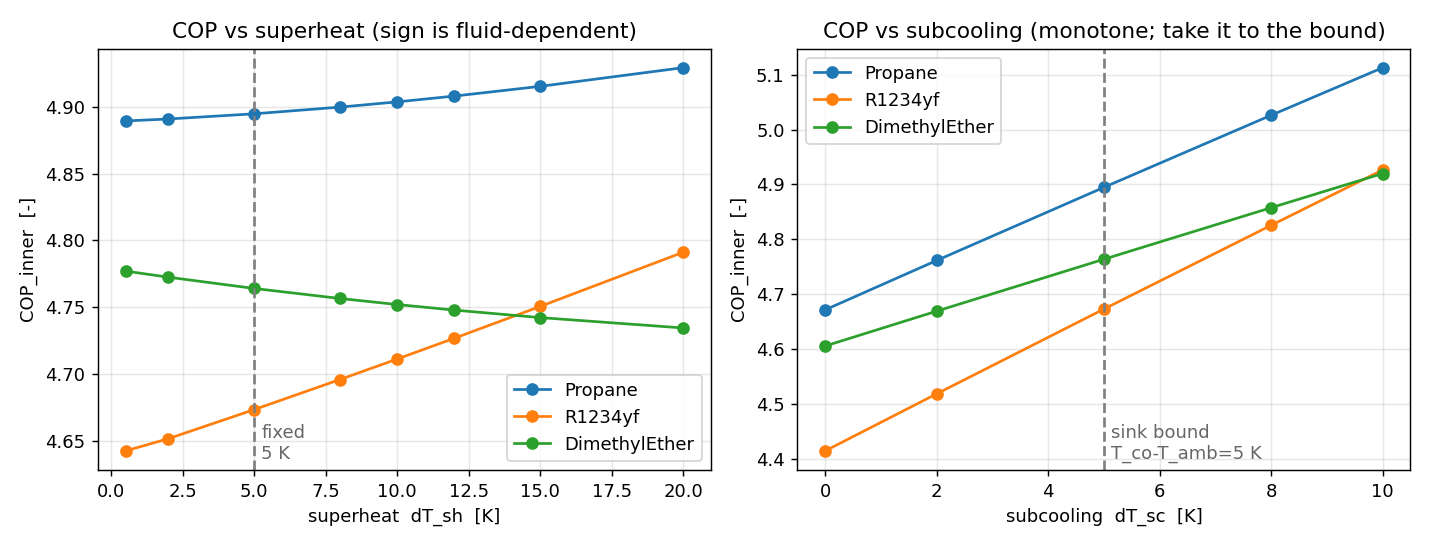
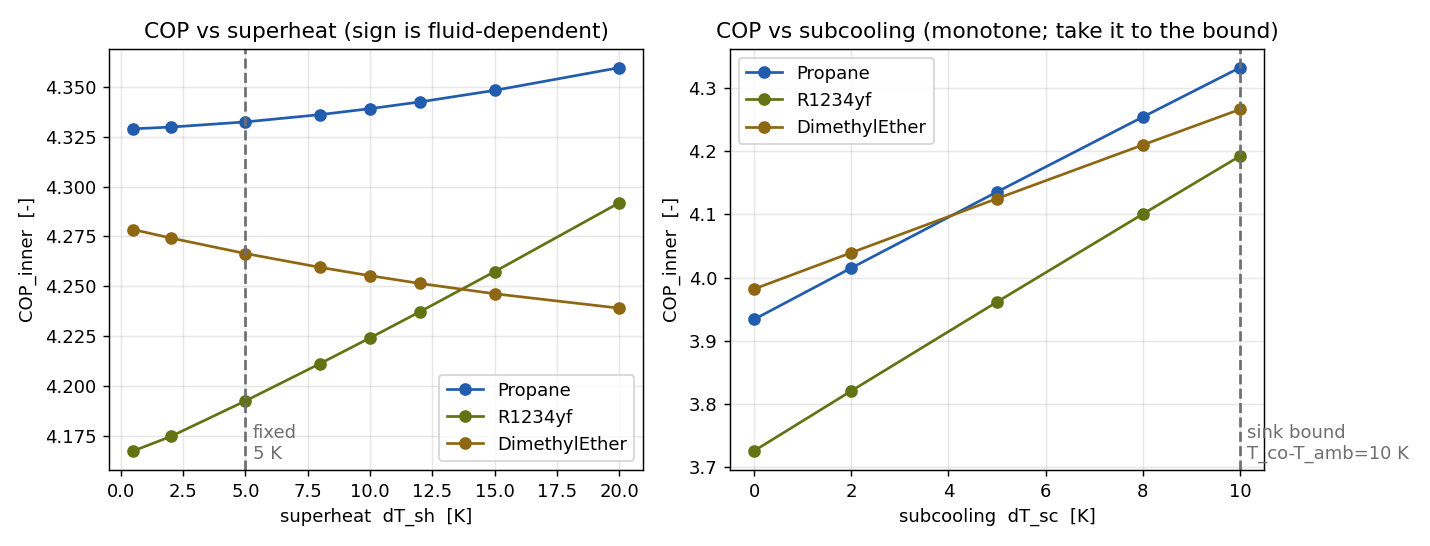
Extend ETH colour scheme to analysis/superheat_subcool_sweep.py
Adds config.REFRIGERANT_COLORS so the three refrigerants get a consistent
colour across every figure that compares them, not just plotting.py's. Last
remaining matplotlib-default-cycle figure in the repo.

diff --git a/analysis/superheat_subcool_sweep.py b/analysis/superheat_subcool_sweep.py
@@ -68,13 +68,13 @@ def main():
     print("SUPERHEAT sweep  (subcool = %.0f K):" % SC_BOUND)
     for refr in REFRIGERANTS:
         cops, qs, tds = zip(*[_cop_q_tdis(refr, sh, SC_BOUND) for sh in SH_GRID])
-        axL.plot(SH_GRID, cops, marker="o", label=refr)
+        axL.plot(SH_GRID, cops, marker="o", color=config.REFRIGERANT_COLORS[refr], label=refr)
         d = 100 * (cops[-1] / cops[0] - 1)
         print("  %-14s COP %.3f->%.3f (%+.1f%% over %g-%g K) | T_dis %.0f->%.0f C"
               % (refr, cops[0], cops[-1], d, SH_GRID[0], SH_GRID[-1], tds[0], tds[-1]))
-    axL.axvline(DT_SH_FIX, ls="--", c="0.5")
+    axL.axvline(DT_SH_FIX, ls="--", c=config.COLOR_NEUTRAL)
     axL.annotate("fixed\n%.0f K" % DT_SH_FIX, (DT_SH_FIX, axL.get_ylim()[0]),
-                 textcoords="offset points", xytext=(4, 6), color="0.4")
+                 textcoords="offset points", xytext=(4, 6), color=config.COLOR_NEUTRAL)
     axL.set_xlabel("superheat  dT_sh  [K]"); axL.set_ylabel("COP_inner  [-]")
     axL.set_title("COP vs superheat (sign is fluid-dependent)"); axL.legend(); axL.grid(alpha=.3)
 
@@ -82,14 +82,14 @@ def main():
     print("\nSUBCOOL sweep    (superheat = %.0f K):" % DT_SH_FIX)
     for refr in REFRIGERANTS:
         cops, qs, tds = zip(*[_cop_q_tdis(refr, DT_SH_FIX, sc) for sc in SC_GRID])
-        axR.plot(SC_GRID, cops, marker="o", label=refr)
+        axR.plot(SC_GRID, cops, marker="o", color=config.REFRIGERANT_COLORS[refr], label=refr)
         i_b = SC_GRID.index(int(SC_BOUND)) if int(SC_BOUND) in SC_GRID else None
         d = 100 * (cops[i_b] / cops[0] - 1) if i_b is not None else float("nan")
         print("  %-14s COP %.3f (sc=0) -> %.3f (sc=%g, the bound)  %+.1f%%"
               % (refr, cops[0], cops[i_b], SC_BOUND, d))
-    axR.axvline(SC_BOUND, ls="--", c="0.5")
+    axR.axvline(SC_BOUND, ls="--", c=config.COLOR_NEUTRAL)
     axR.annotate("sink bound\nT_co-T_amb=%.0f K" % SC_BOUND, (SC_BOUND, axR.get_ylim()[0]),
-                 textcoords="offset points", xytext=(4, 6), color="0.4")
+                 textcoords="offset points", xytext=(4, 6), color=config.COLOR_NEUTRAL)
     axR.set_xlabel("subcooling  dT_sc  [K]"); axR.set_ylabel("COP_inner  [-]")
     axR.set_title("COP vs subcooling (monotone; take it to the bound)"); axR.legend(); axR.grid(alpha=.3)
 

diff --git a/src/common/config.py b/src/common/config.py
@@ -287,3 +287,7 @@ COLOR_NEUTRAL = ETH_GREY             # reference lines, contour overlays, etc.
 # shared across plot_overview and any other multi-season figure.
 SEASON_COLORS = {"winter": ETH_BLUE, "spring": ETH_GREEN,
                  "summer": ETH_RED, "fall": ETH_BRONZE}
+
+# One colour per refrigerant, shared across any figure comparing all three
+# (e.g. analysis/superheat_subcool_sweep.py).
+REFRIGERANT_COLORS = {"Propane": ETH_BLUE, "R1234yf": ETH_GREEN, "DimethylEther": ETH_BRONZE}